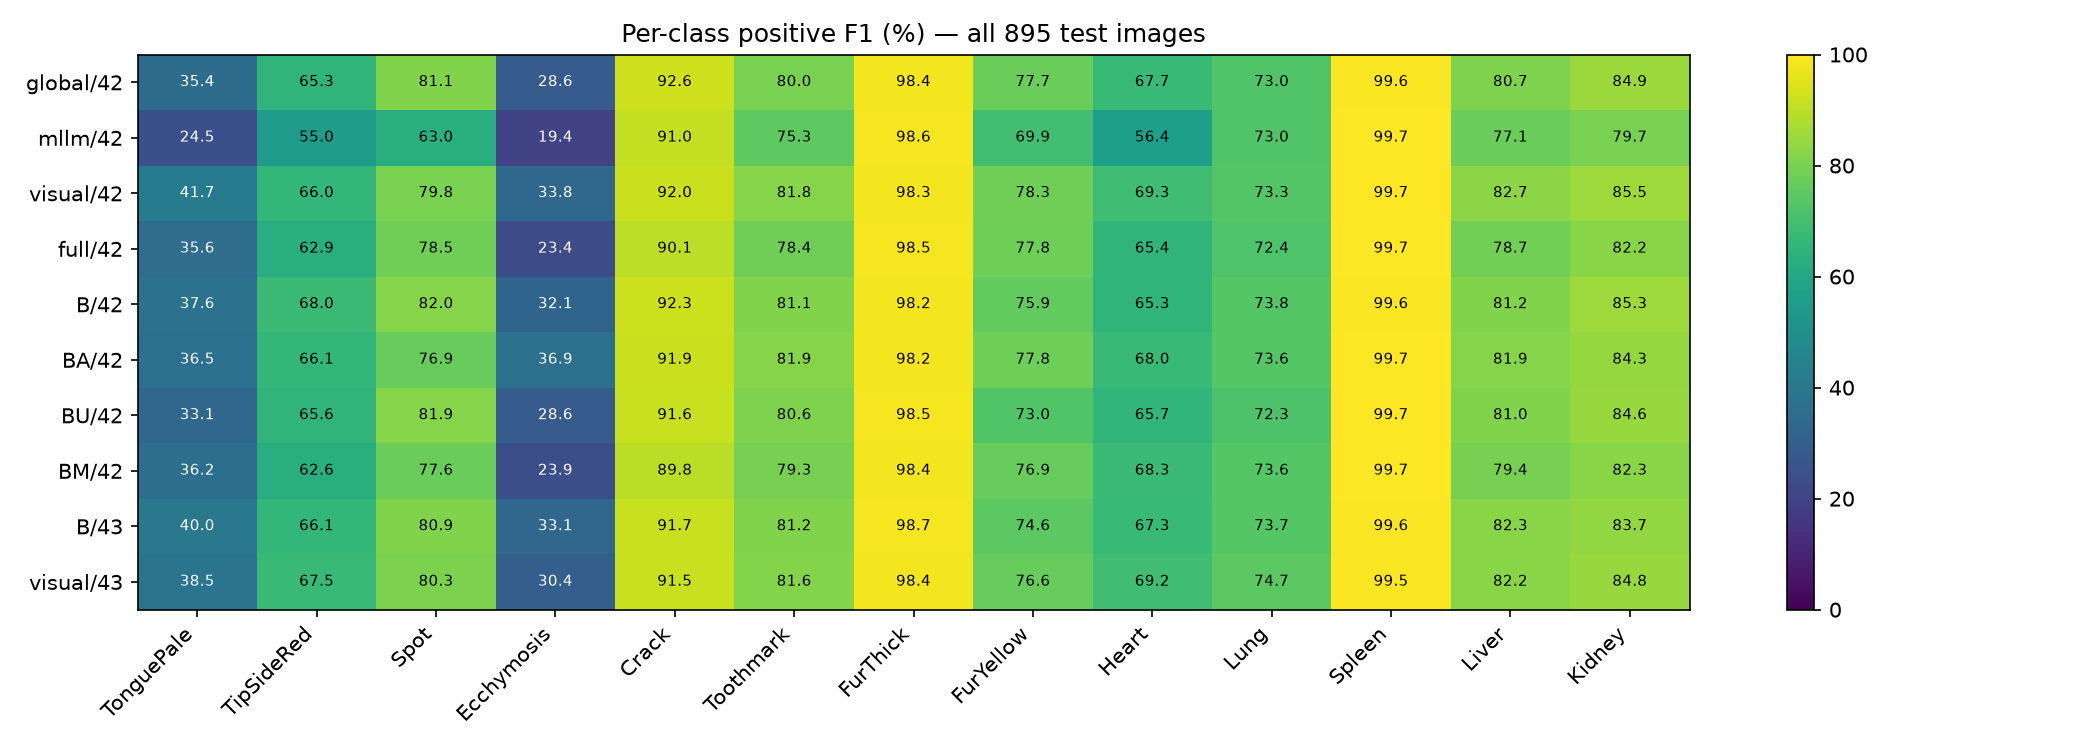
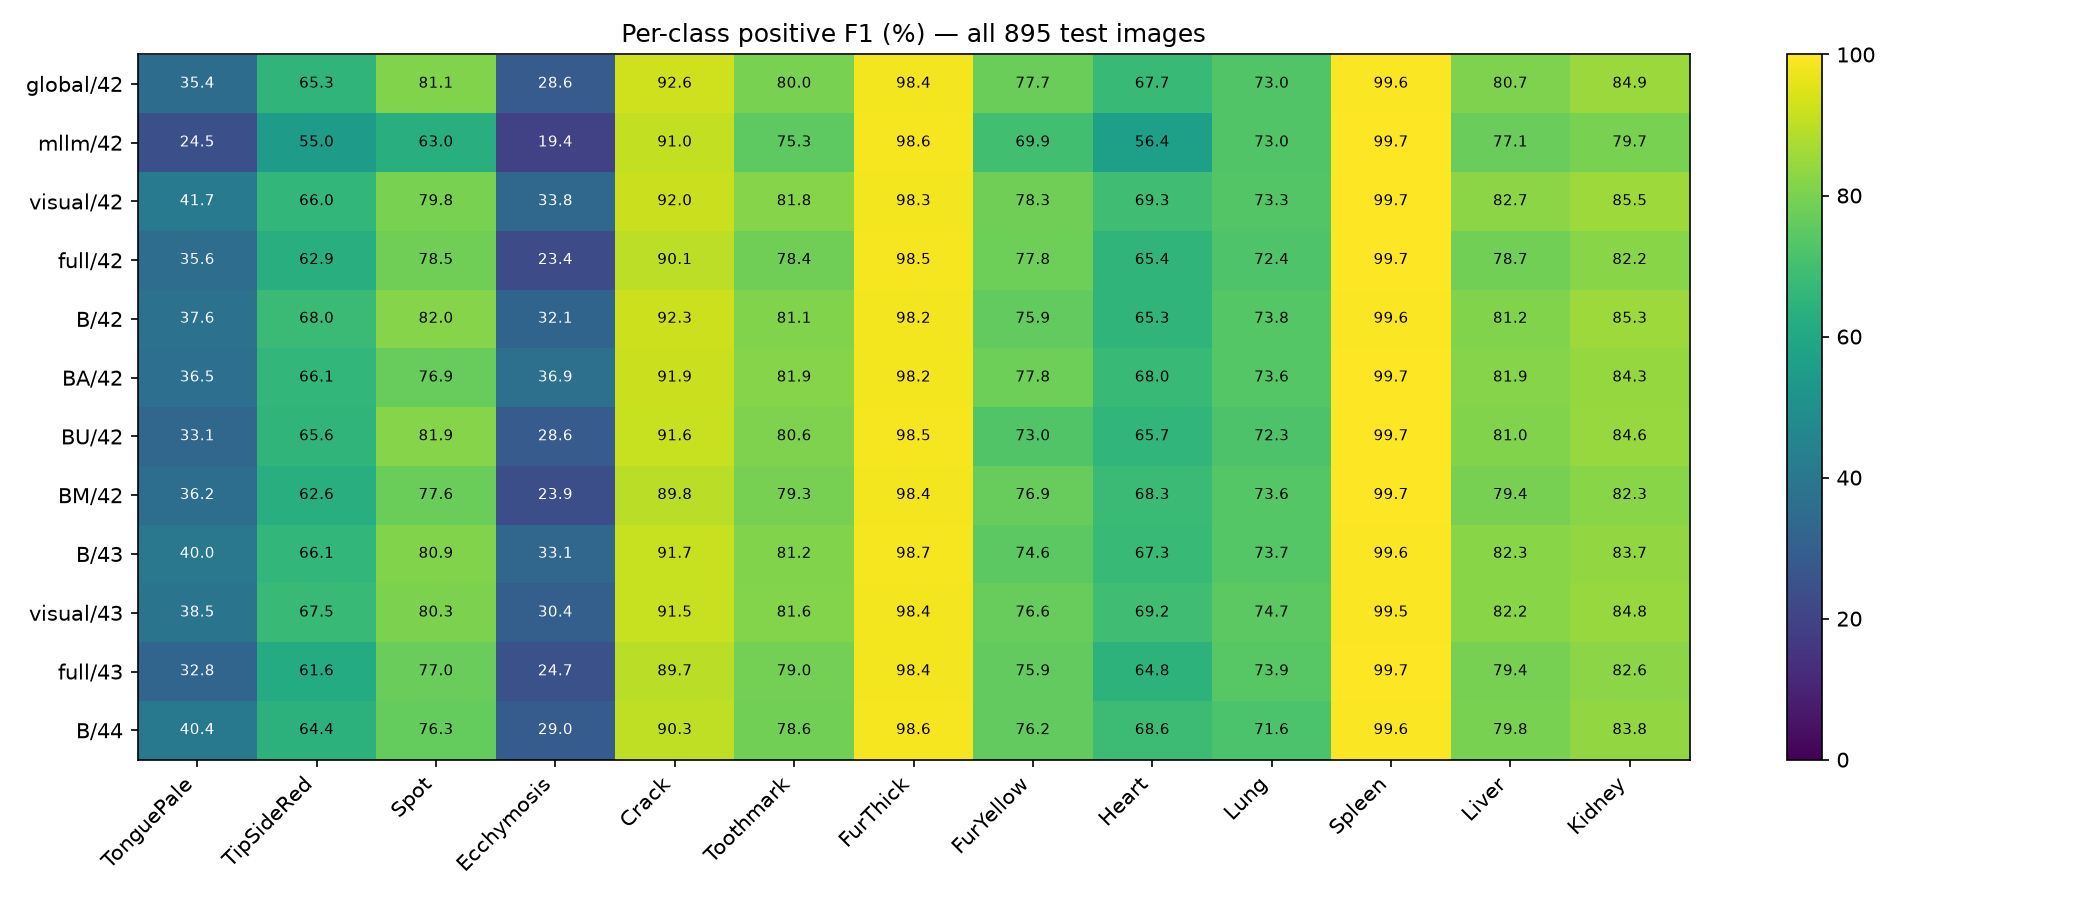
results: record twelve completed runs and track remaining suite

diff --git a/src/train/reproduce.py b/src/train/reproduce.py
@@ -233,6 +233,8 @@ def run(default_model=None):
     if config['limit'] and config['limit'] % config['batch_size'] == 1:
         parser.error('Training tail batch cannot contain one sample (BatchNorm)')
     if args.resume:
+        if not all(key in checkpoint for key in ('optimizer', 'scheduler', 'scaler', 'rng', 'history')):
+            parser.error('Resume requires a full training checkpoint (last.pt); best.pt contains evaluation weights only')
         allowed = {'epochs', 'device', 'workers'}
         changed = {key for key in DEFAULTS if config[key] != checkpoint['config'][key]}
         if changed - allowed:
@@ -243,10 +245,19 @@ def run(default_model=None):
     torch.set_num_threads(8)
     torch.backends.cudnn.deterministic = True
     torch.backends.cudnn.benchmark = False
-    output = run_directory(args.output_dir, f'{config["profile"]}_{config["model"]}_seed{config["seed"]}' + ('_eval' if args.evaluate else ''))
+    label = f'{config["profile"]}_{config["model"]}_seed{config["seed"]}'
+    if args.resume:
+        output = args.resume.resolve().parent.parent
+        if not args.resume.resolve().is_relative_to(args.output_dir.resolve()):
+            parser.error(f'Resume checkpoint {args.resume} is outside --output-dir {args.output_dir}')
+        if output.name.split('_', 3)[-1] != label:
+            parser.error(f'Resume directory {output.name} does not match requested {label}')
+    else:
+        output = run_directory(args.output_dir, label + ('_eval' if args.evaluate else ''))
     ACTIVE_RUN = output
     logging.basicConfig(level=logging.INFO, format='%(asctime)s %(message)s',
-                        handlers=[logging.FileHandler(output / 'train.log'), logging.StreamHandler()])
+                        handlers=[logging.FileHandler(output / 'train.log', mode='a' if args.resume else 'w'),
+                                  logging.StreamHandler()])
     logging.info('RUN %s', output)
     write_json(output / 'status.json', {'status': 'initializing'})
     write_json(output / 'config.json', config)
@@ -268,7 +279,7 @@ def run(default_model=None):
     logging.info('PARAMETERS %d', sum(p.numel() for p in model.parameters()))
     if checkpoint:
         model.load_state_dict(checkpoint['model'], strict=True)
-    history = checkpoint['history'].copy() if checkpoint else []
+    history = checkpoint['history'].copy() if args.resume else []
     if not args.evaluate:
         optimizer = torch.optim.Adam(model.parameters(), lr=config['learning_rate'], weight_decay=config['weight_decay'])
         scheduler = torch.optim.lr_scheduler.ReduceLROnPlateau(optimizer, mode='min', factor=.3, patience=5)
@@ -282,8 +293,11 @@ def run(default_model=None):
             best_score, counter, best_epoch = checkpoint['best_score'], checkpoint['counter'], checkpoint['best_epoch']
             best_path = Path(checkpoint['best_path'])
             restore_rng(checkpoint['rng'])
-        (output / 'checkpoints').mkdir()
-        start = checkpoint['epoch'] + 1 if checkpoint else 0
+            start = checkpoint['epoch'] + 1
+            del checkpoint
+        else:
+            start = 0
+        (output / 'checkpoints').mkdir(exist_ok=True)
         state = None
         for epoch in range(start, config['epochs']):
             if counter >= config['patience']:
@@ -317,7 +331,8 @@ def run(default_model=None):
                          counter=counter, best_path=str(best_path), config=config, data_manifest=data_manifest,
                          selected_metrics=val_metrics, history=history, rng=rng_state())
             if improved:
-                save_checkpoint(best_path, state)
+                save_checkpoint(best_path, {key: state[key] for key in
+                                            ('model', 'epoch', 'best_epoch', 'config', 'data_manifest', 'selected_metrics')})
             save_checkpoint(output / 'checkpoints/last.pt', state)
             row['seconds_with_checkpoint'] = time.monotonic() - epoch_started
             with (output / 'history.csv').open('w', newline='') as handle:

diff --git a/scripts/track_reproduction_suite.py b/scripts/track_reproduction_suite.py
@@ -1,0 +1,76 @@
+"""Track an existing suite and publish its completed reports."""
+
+import argparse
+import csv
+from datetime import datetime
+import json
+import os
+from pathlib import Path
+import subprocess
+import sys
+import time
+from zoneinfo import ZoneInfo
+
+ROOT = Path(__file__).resolve().parents[1]
+sys.path.insert(0, str(ROOT / 'src'))
+from utils.experiment import run_directory, write_json
+
+
+def main():
+    parser = argparse.ArgumentParser(description=__doc__)
+    parser.add_argument('--suite', type=Path, required=True)
+    parser.add_argument('--controller-pid', type=int, required=True)
+    parser.add_argument('--publish', action='store_true')
+    args = parser.parse_args()
+    suite = args.suite.resolve()
+    report = ROOT / 'reports/reproduction' / suite.name
+    output = run_directory(ROOT / 'outputs/tracking', 'suite_tracker')
+    state = {'pid': os.getpid(), 'controller_pid': args.controller_pid,
+             'suite': str(suite), 'status': 'tracking'}
+    published = set()
+    print(f'TRACKER {output}', flush=True)
+    try:
+        if args.publish:
+            branch = subprocess.check_output(['git', 'branch', '--show-current'], cwd=ROOT, text=True).strip()
+            if branch != 'shujuecn':
+                raise RuntimeError('Publishing requires shujuecn branch')
+        while True:
+            queue_state = json.loads((suite / 'suite_status.json').read_text())
+            completed = {(item['model'], item['seed']) for item in queue_state['queue']
+                         if item['status'] == 'complete'}
+            with (report / 'main_results.csv').open(newline='') as handle:
+                reported = {(row['model'], int(row['seed'])) for row in csv.DictReader(handle)}
+            report_state = json.loads((report / 'suite_status.json').read_text())
+            ready = reported == completed and report_state == queue_state
+            if ready and (completed != published or queue_state['status'] == 'complete'):
+                if args.publish:
+                    relative = str(report.relative_to(ROOT))
+                    subprocess.run(['git', 'add', '--', relative], cwd=ROOT, check=True)
+                    changed = subprocess.run(['git', 'diff', '--cached', '--quiet', '--', relative], cwd=ROOT)
+                    if changed.returncode == 1:
+                        message = f'results: reproduction suite {len(completed)}/{len(queue_state["queue"])} {queue_state["status"]}'
+                        subprocess.run(['git', 'commit', '--only', '-m', message, '--', relative], cwd=ROOT, check=True)
+                    elif changed.returncode != 0:
+                        raise RuntimeError('Unable to inspect staged report')
+                    subprocess.run(['git', 'push', 'fork', 'shujuecn'], cwd=ROOT, check=True)
+                published = completed
+                state['completed'] = len(completed)
+                state['last_report_at'] = datetime.now(ZoneInfo('Asia/Shanghai')).isoformat()
+                print(f'REPORTED {len(completed)}/{len(queue_state["queue"])} {queue_state["status"]}', flush=True)
+            if queue_state['status'] == 'failed':
+                raise RuntimeError('Training controller reported failure; inspect suite logs')
+            if ready and queue_state['status'] == 'complete':
+                state['status'] = 'complete'
+                break
+            os.kill(args.controller_pid, 0)
+            write_json(output / 'status.json', state)
+            time.sleep(15)
+    except Exception as error:
+        state.update(status='failed', error=str(error))
+        raise
+    finally:
+        write_json(output / 'status.json', state)
+
+
+if __name__ == '__main__':
+    main()

diff --git a/README.md b/README.md
@@ -76,7 +76,7 @@ Existing generated images, split labels, and feature JSONs have been moved into 
 
 The examples below run from the repository root. Use `--data-dir` to select another processed dataset, `--feature-file` / `--label-dir` to override individual inputs, and `--output-dir` for a separate experiment. Multimodal and MLLM-only training also accept `--mllm-features-file`.
 
-Each execution creates a new `YYYYMMDD_HHMMSS_microseconds_...` directory under `--output-dir` (Asia/Shanghai). The shared trainer saves `best.pt`, `last.pt`, configuration, environment, history, per-image validation/test predictions and per-class metrics. See [the execution record](docs/reproduction_progress.md) for the fixed protocol and current progress.
+Each execution creates a new `YYYYMMDD_HHMMSS_microseconds_...` directory under `--output-dir` (Asia/Shanghai). The shared trainer saves model weights and evaluation metadata in `best.pt`, and full training state in `last.pt` for `--resume`, plus configuration, environment, history, per-image validation/test predictions and per-class metrics. See [the execution record](docs/reproduction_progress.md) for the fixed protocol and current progress.
 
 ### Visual Model (AGLFF + UWBMoE)
 

diff --git a/reports/reproduction/20261005_042629_774918_suite/reproduction_report.md b/reports/reproduction/20261005_042629_774918_suite/reproduction_report.md
@@ -19,6 +19,8 @@ code_compat 保留独立七图增强、无 ImageNet normalization、global-only 
 | BM | 42 | 83 | 83.18 / 68.10 | 77.30 / 80.65 |
 | B | 43 | 92 | 85.22 / 70.79 | 78.79 / 81.32 |
 | visual | 43 | 81 | 84.86 / 70.60 | 79.55 / 82.07 |
+| full | 43 | 99 | 82.84 / 67.39 | 77.12 / 80.07 |
+| B | 44 | 26 | 84.26 / 69.21 | 78.61 / 80.67 |
 
 六组消融和主模型多 seed 的运行状态见 `run_status.json`；未完成时不宣称整个复现完成。
 TVMoE 等外部实现/同 split 逐图预测、论文 Sankey 8×5 公式仍缺失，不能复现对应比较和图。
